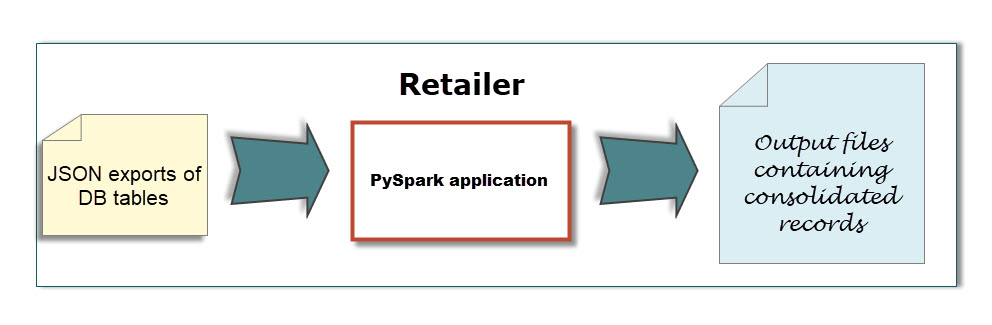
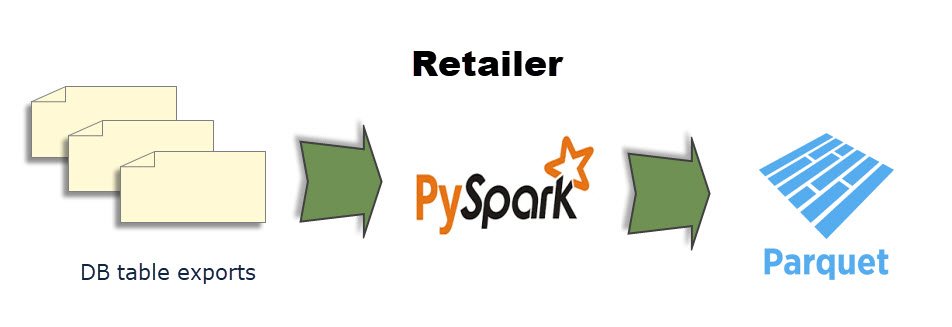
added functionality to write dataframe to PARQUET files

diff --git a/tests/util/test_spark_utils.py b/tests/util/test_spark_utils.py
@@ -4,12 +4,15 @@ from unittest import TestCase, mock
 
 from util import spark_utils
 
-customer_record = {"customer_id": 100, "customer_name": "Customer 1"}
-order_record = {"order_id": 42008, "order_customer_id": 100}
-order_record_2 = {"order_id": 52008, "order_customer_id": 100}
-order_item_record = {"order_item_id": 95546, "order_item_order_id": 42008}
-order_item_record_2 = {"order_item_id": 85546, "order_item_order_id": 42008}
-order_item_record_3 = {"order_item_id": 85546, "order_item_order_id": 52008}
+customer_record_1 = {"customer_id": 100, "customer_name": "Customer 1"}
+order_record_11 = {"order_id": 42008, "order_customer_id": 100}
+order_record_12 = {"order_id": 52008, "order_customer_id": 100}
+order_item_record_111 = {"order_item_id": 95546, "order_item_order_id": 42008}
+order_item_record_112 = {"order_item_id": 85546, "order_item_order_id": 42008}
+order_item_record_121 = {"order_item_id": 85546, "order_item_order_id": 52008}
+customer_record_2 = {"customer_id": 200, "customer_name": "Customer 2"}
+order_record_21 = {"order_id": 742, "order_customer_id": 200}
+order_item_record_211 = {"order_item_id": 116, "order_item_order_id": 742}
 
 
 class TestSparkContextManager(TestCase):
@@ -19,9 +22,9 @@ class TestSparkContextManager(TestCase):
         cls._scm = spark_utils.SparkContextManager("unit_testing")
         cls._scm.__enter__()
 
-        cls._customers_df = cls._scm.spark.createDataFrame([customer_record])
-        cls._orders_df = cls._scm.spark.createDataFrame([order_record])
-        cls._order_items_df = cls._scm.spark.createDataFrame([order_item_record])
+        cls._customers_df = cls._scm.spark.createDataFrame([customer_record_1])
+        cls._orders_df = cls._scm.spark.createDataFrame([order_record_11])
+        cls._order_items_df = cls._scm.spark.createDataFrame([order_item_record_111])
 
         cls._columns_of_customers = cls._customers_df.columns
         cls._columns_of_orders = cls._orders_df.columns
@@ -33,13 +36,13 @@ class TestSparkContextManager(TestCase):
 
     @mock.patch.object(spark_utils, "constants")
     def test_read_files(self, mocked_constants):
-        self._scm.logger.info("Testing spark_utils.read_files()")
+        self._scm.logger.debug("Testing spark_utils.read_files()")
         with (
             tempfile.TemporaryDirectory() as dummy_customers_folder,
             tempfile.TemporaryDirectory() as dummy_orders_folder,
             tempfile.TemporaryDirectory() as dummy_order_items_folder,
         ):
-            self._scm.logger.info("Writing dummy files into dummy folders...")
+            self._scm.logger.debug("Writing dummy files into dummy folders...")
 
             self._customers_df.write.mode("overwrite").format("json").save(dummy_customers_folder)
             self._orders_df.write.mode("overwrite").format("json").save(dummy_orders_folder)
@@ -52,40 +55,40 @@ class TestSparkContextManager(TestCase):
             customers_df, orders_df, order_items_df = self._scm.read_files()
 
             self.assertDictEqual(
-                customer_record,
+                customer_record_1,
                 customers_df.collect()[0].asDict(),
                 "Customers DF not read properly"
             )
             self.assertDictEqual(
-                order_record,
+                order_record_11,
                 orders_df.collect()[0].asDict(),
                 "Orders DF not read properly"
             )
             self.assertDictEqual(
-                order_item_record,
+                order_item_record_111,
                 order_items_df.collect()[0].asDict(),
                 "Order Items DF not read properly"
             )
 
-        self._scm.logger.info("Test passed!")
+        self._scm.logger.debug("Test passed!")
 
     def test_join_dataframes(self):
-        self._scm.logger.info("Testing spark_utils.join_dataframes()")
+        self._scm.logger.debug("Testing spark_utils.join_dataframes()")
         customer_orders_df = self._scm.join_dataframes(self._customers_df,
                                                        self._orders_df, self._order_items_df)
 
         self.assertEqual(1, customer_orders_df.count())
 
         self.assertDictEqual(
-            {**customer_record, **order_record, **order_item_record},
+            {**customer_record_1, **order_record_11, **order_item_record_111},
             customer_orders_df.collect()[0].asDict(),
             "Customer Orders DF not created properly"
         )
-        self._scm.logger.info("Test passed!")
+        self._scm.logger.debug("Test passed!")
 
     def test_form_order_items_by_orders_df(self):
-        self._scm.logger.info("Testing spark_utils.form_order_items_by_orders_df()")
-        order_items_df = self._scm.spark.createDataFrame([order_item_record, order_item_record_2])
+        self._scm.logger.debug("Testing spark_utils.form_order_items_by_orders_df()")
+        order_items_df = self._scm.spark.createDataFrame([order_item_record_111, order_item_record_112])
         customer_orders_df = self._scm.join_dataframes(self._customers_df,
                                                        self._orders_df, order_items_df)
 
@@ -96,16 +99,16 @@ class TestSparkContextManager(TestCase):
         self.assertEqual(1, order_items_by_orders_df.count())
 
         self.assertDictEqual(
-            {**customer_record, **order_record, "order_items": [order_item_record, order_item_record_2]},
+            {**customer_record_1, **order_record_11, "order_items": [order_item_record_111, order_item_record_112]},
             order_items_by_orders_df.collect()[0].asDict(recursive=True),
             "Consolidated DF not created properly"
         )
-        self._scm.logger.info("Test passed!")
+        self._scm.logger.debug("Test passed!")
 
     def test_form_orders_of_same_customer_df(self):
-        self._scm.logger.info("Testing spark_utils.form_orders_of_same_customer_df()")
-        orders_df = self._scm.spark.createDataFrame([order_record, order_record_2])
-        order_items_df = self._scm.spark.createDataFrame([order_item_record, order_item_record_3])
+        self._scm.logger.debug("Testing spark_utils.form_orders_of_same_customer_df()")
+        orders_df = self._scm.spark.createDataFrame([order_record_11, order_record_12])
+        order_items_df = self._scm.spark.createDataFrame([order_item_record_111, order_item_record_121])
         customer_orders_df = self._scm.join_dataframes(self._customers_df,
                                                        orders_df, order_items_df)
         order_items_by_orders_df = self._scm.form_order_items_by_orders_df(customer_orders_df,
@@ -117,12 +120,43 @@ class TestSparkContextManager(TestCase):
                                                                            self._columns_of_orders)
         self.assertEqual(1, orders_of_same_customer_df.count())
         self.assertDictEqual(
-            {**customer_record,
+            {**customer_record_1,
                 "orders": [
-                    {**order_record, "order_items": [order_item_record]},
-                    {**order_record_2, "order_items": [order_item_record_3]}
+                    {**order_record_11, "order_items": [order_item_record_111]},
+                    {**order_record_12, "order_items": [order_item_record_121]}
                 ]},
             orders_of_same_customer_df.collect()[0].asDict(recursive=True),
             "Consolidated DF not created properly"
         )
-        self._scm.logger.info("Test passed!")
+        self._scm.logger.debug("Test passed!")
+
+    @mock.patch.object(spark_utils, "constants")
+    def test_write_df(self, mocked_constants):
+        self._scm.logger.debug("Testing spark_utils.write_df()")
+
+        self._scm.logger.debug("Creating dummy dataframe...")
+        customers_df = self._scm.spark.createDataFrame([customer_record_1, customer_record_2])
+        orders_df = self._scm.spark.createDataFrame([order_record_11, order_record_12, order_record_21])
+        order_items_df = self._scm.spark.createDataFrame(
+            [order_item_record_111, order_item_record_112, order_item_record_121, order_item_record_211])
+        customer_orders_df = self._scm.join_dataframes(customers_df, orders_df, order_items_df)
+
+        order_items_by_orders_df = self._scm.form_order_items_by_orders_df(customer_orders_df,
+                                                                           self._columns_of_customers,
+                                                                           self._columns_of_orders,
+                                                                           self._columns_of_order_items)
+        orders_of_same_customer_df = self._scm.form_orders_of_same_customer_df(order_items_by_orders_df,
+                                                                           self._columns_of_customers,
+                                                                           self._columns_of_orders)
+        expected = [row.asDict(recursive=True) for row in orders_of_same_customer_df.collect()]
+
+        with (tempfile.TemporaryDirectory() as dummy_output_folder):
+            self._scm.logger.debug("Writing dummy dataframe into dummy folder...")
+            mocked_constants.OUTPUT_FOLDER_PATH = dummy_output_folder
+            self._scm.write_df(orders_of_same_customer_df)
+
+            saved_df = self._scm.spark.read.parquet(dummy_output_folder)
+            actual = [row.asDict(recursive=True) for row in saved_df.collect()]
+            self.assertListEqual(expected, actual, "Saved DF not read correctly!")
+
+        self._scm.logger.debug("Test passed!")

diff --git a/util/log_utils.py b/util/log_utils.py
@@ -37,7 +37,7 @@ class Log4j:
     def setup_python_logger_instead(self, root_class: str, app_name: str) -> logging.Logger:
         """Setup a python logger."""
         logger = logging.getLogger(root_class + "." + app_name)
-        logger.setLevel(logging.INFO)
+        logger.setLevel(logging.DEBUG)
 
         console_handler = logging.StreamHandler()
         file_handler = logging.FileHandler(
@@ -49,8 +49,8 @@ class Log4j:
         logger.addHandler(file_handler)
         formatter = logging.Formatter(
             "{asctime} - {levelname} - {message}",
-            style="{", # use str.format() to write the log's timestamp
-            datefmt="%Y-%m-%d %H:%M" # format of the log's timestamp
+            style="{",                  # use str.format() to write the log's timestamp
+            datefmt="%Y-%m-%d %H:%M"    # format of the log's timestamp
         )
 
         console_handler.setFormatter(formatter)

diff --git a/retailer_app/main.py b/retailer_app/main.py
@@ -1,5 +1,4 @@
 """This is the Retailer App's main module."""
-from pyspark.sql import functions as func
 from util import spark_utils as su
 
 
@@ -18,8 +17,9 @@ def main() -> None:
             customer_orders_df, columns_of_customers, columns_of_orders, columns_of_order_items)
         orders_of_same_customer_df = scm.form_orders_of_same_customer_df(
             order_items_of_same_order_df,columns_of_customers, columns_of_orders)
-        orders_of_same_customer_df.printSchema()
+
+        scm.write_df(orders_of_same_customer_df)
 
 
-if __name__ == "__main__":
+if __name__ == "__main__":  # pragma: no cover
     main()

diff --git a/util/spark_utils.py b/util/spark_utils.py
@@ -95,3 +95,9 @@ class SparkContextManager:
             orderBy("customer_id")
         self.logger.info("Consolidation finished!")
         return orders_of_same_customer_df
+
+    def write_df(self, df: sql.DataFrame) -> None:
+        """Write the dataframe to the specified folder."""
+        self.logger.info("Now writing the dataframe to the output folder...")
+        df.write.parquet(constants.OUTPUT_FOLDER_PATH, "overwrite")
+        self.logger.info("Successfully wrote dataframe to PARQUET files!")

diff --git a/README.md b/README.md
@@ -1,21 +1,22 @@
 # fictional-train
 
 This project simulates a B2B scenario.  In this scenario, we have a retailer that sends
-sales data to a third party (here termed "HQ") that generates BI reports from the data.
+sales data to a third party (here termed "HQ") that in turn generates BI reports from the data.
 The retailer might be one of many retailers that sends data to HQ.
 
 The retailer maintains a RDBMS to record sales transactions.  However, HQ doesn't have
-access to the retailer's RDBMS and therefore cannot directly use the stored data to
-generate BI reports.  To resolve this, the retailer has decided to export the RDBMS tables
-to JSON files.  The tables are normalized so there is a need to consolidate data.  The 
-retailer has also decided to send the data in PARQUET files.
+access to the retailer's RDBMS and therefore cannot directly use the data stored in the 
+retailer's database to generate BI reports.  To resolve this, the retailer has decided to 
+export the RDBMS tables to JSON files.  The tables are normalized so there is a need to 
+consolidate data.  The retailer has also decided to save the consolidated data in PARQUET 
+files.  These files will then be sent to HQ.
 
 The retailer has a PySpark application for its needs.  The following image presents an
 overview of the retailer's operation:
 
-<img src="data/images/retailer.jpg" width="200" height="150"/>
+<img src="data/images/retailer.jpg" width="400" height="200"/>
 
-The retailer simulates sending the files to HQ by writing files to `data/output/retailer`.
+The retailer simulates sending the files to HQ by writing files to `data/output/`.
 
 HQ consumes the files set by the retailer.
 
